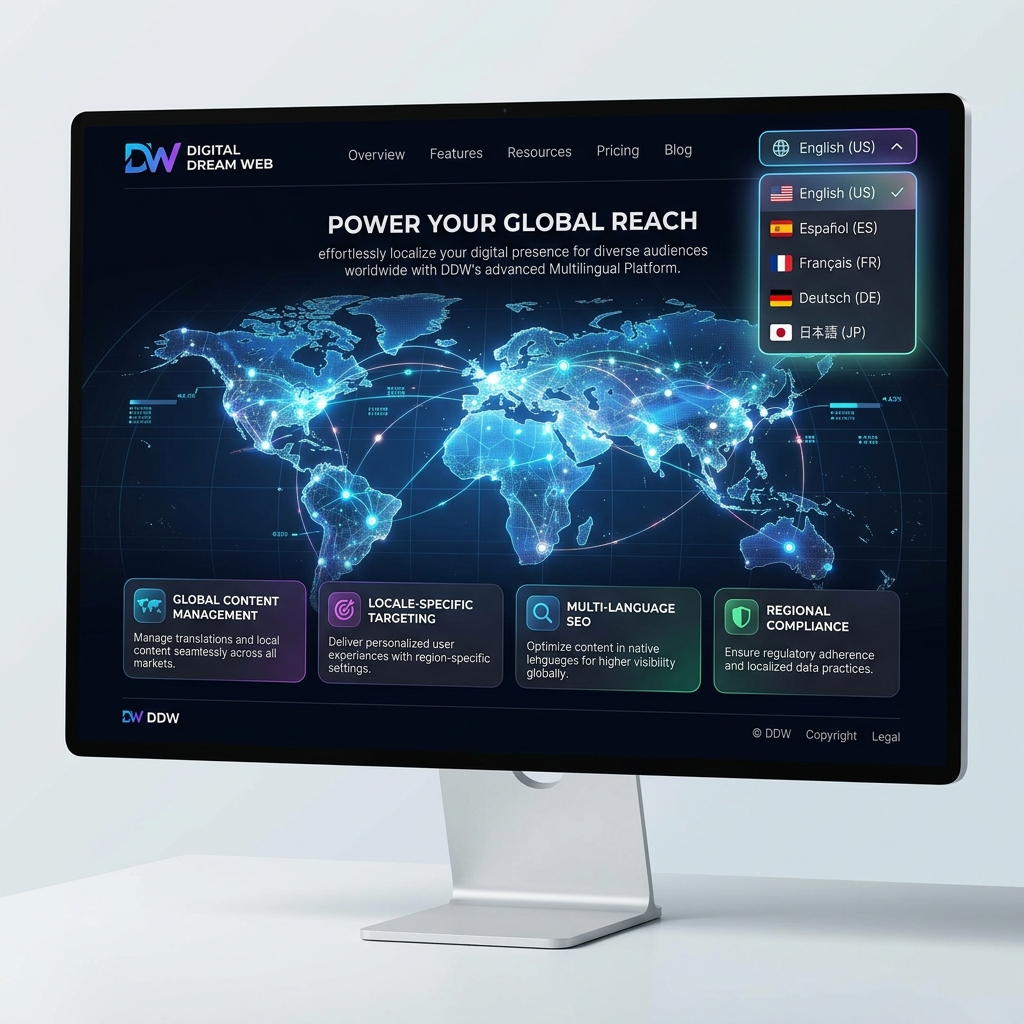
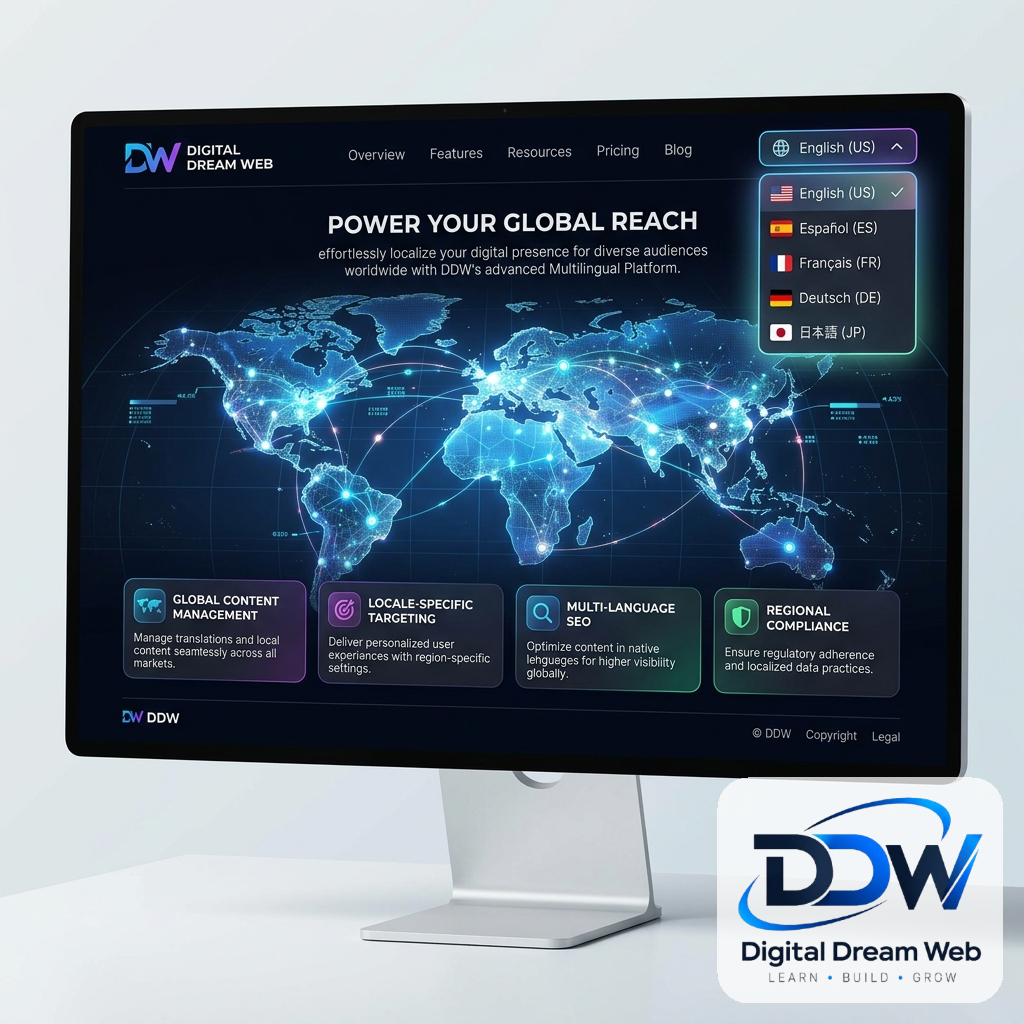
feat: use watermarked project screenshots in services tabs

Changed region(s): [[0.6875, 0.75, 1.0, 1.0]]

diff --git a/src/components/features-tabs.tsx b/src/components/features-tabs.tsx
@@ -7,31 +7,31 @@ const tabs = [
   {
     title: "Web Development",
     desc: "Custom, high-performance websites and web apps built with Next.js, React, and the MERN stack — fast, secure, and SEO-ready.",
-    img: asset("/axiolance/691b691fd4e8df2c53622a35_Multitenancy (2).avif"),
+    img: asset("/ddw/feature-spa.png"),
     alt: "Web Development",
   },
   {
     title: "Mobile Apps",
     desc: "Native-feeling iOS and Android apps with clean architecture, offline support, and push notifications your users will love.",
-    img: asset("/axiolance/691b69857f36dba853a8771f_Multilingual.avif"),
+    img: asset("/ddw/feature-spa.png"),
     alt: "Mobile Apps",
   },
   {
     title: "UI/UX Design",
     desc: "Research-driven interfaces, wireframes, and design systems that turn visitors into customers.",
-    img: asset("/axiolance/691b69d3d9e0a78fac1e3ccb_Single-Page-Application.avif"),
+    img: asset("/ddw/feature-spa.png"),
     alt: "UI/UX Design",
   },
   {
     title: "SaaS & Product Engineering",
     desc: "From MVP to scale — multi-tenant dashboards, billing, and secure back ends that grow with your users.",
-    img: asset("/axiolance/691b6a557d08713cb399d8e2_Custom-Domain.avif"),
+    img: asset("/ddw/feature-multilingual.png"),
     alt: "SaaS & Product Engineering",
   },
   {
     title: "AI & Automation",
     desc: "Custom AI assistants, chatbots, and workflow automation that save your team hours every week.",
-    img: asset("/axiolance/691b6abe4e0a84a165d65d40_Stripe-Billing.avif"),
+    img: asset("/ddw/hero-dashboard.png"),
     alt: "AI & Automation",
   },
 ];
